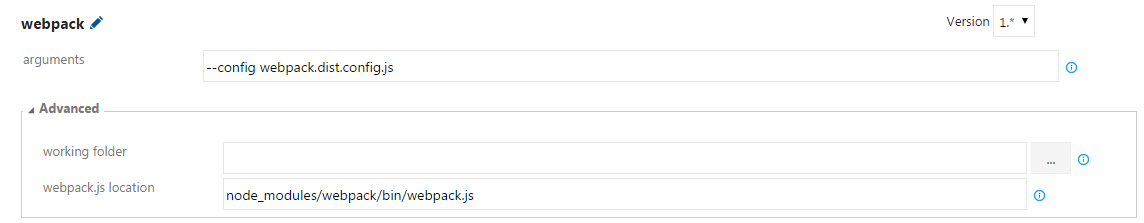
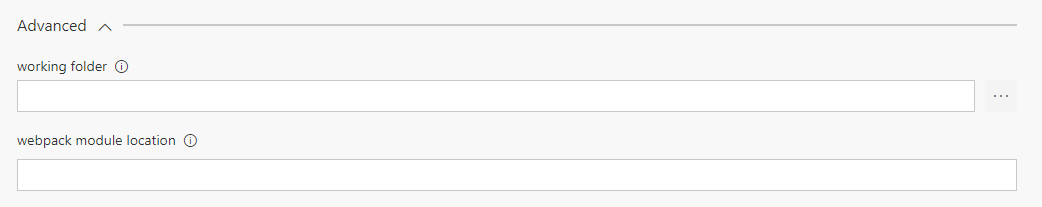
updated documentation and screenshots - part 1

diff --git a/README.md b/README.md
@@ -100,7 +100,7 @@ webpack module location | false | | Location of the webpack module. If you leave
 
 ## Release Notes
 
-* 3.0.0 (30/06/2017)
+* 3.0.6 (02/07/2017)
     * As the build step is using webpack's node.js API the arguments setting is gone. Instead of that there's the webpack config file location where custom configuration files can be specified for the compilation.
     * The setting of webpack.js location is gone, instead of that use webpack module location if you don't want to use the locally installed webpack module.
     * The webpack build step summary section is using webpack node.js API to show the result information.
